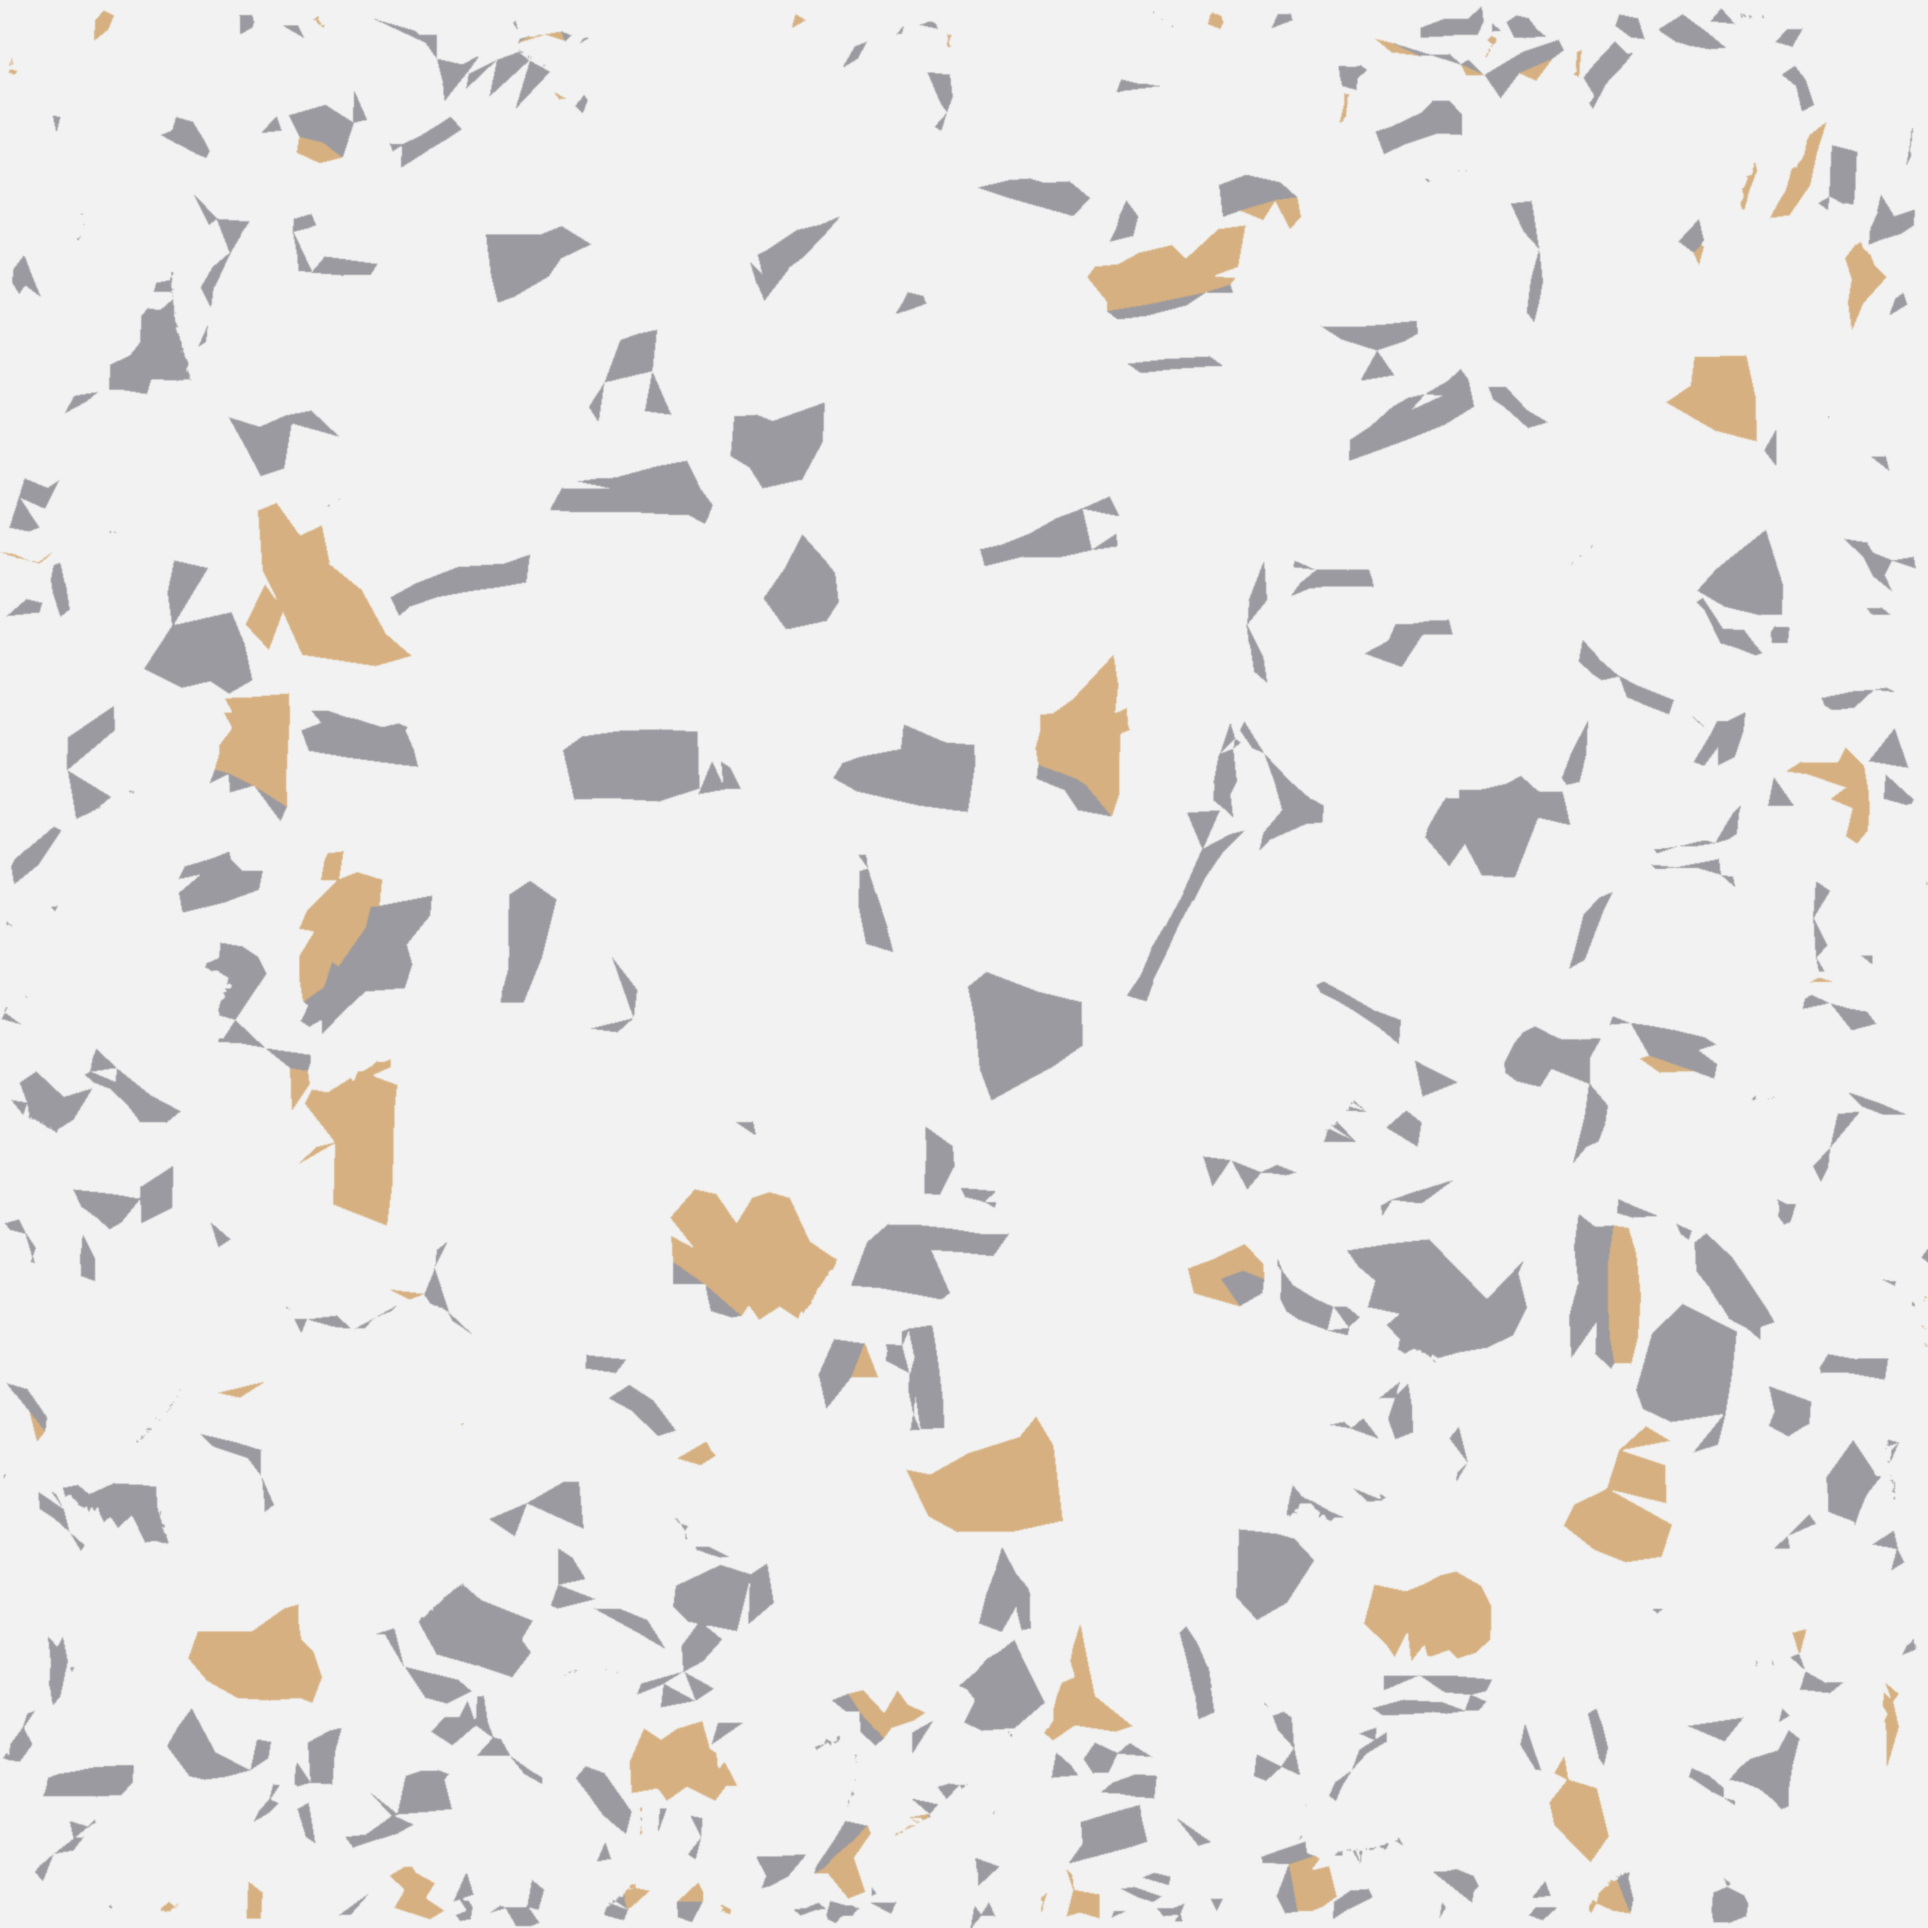
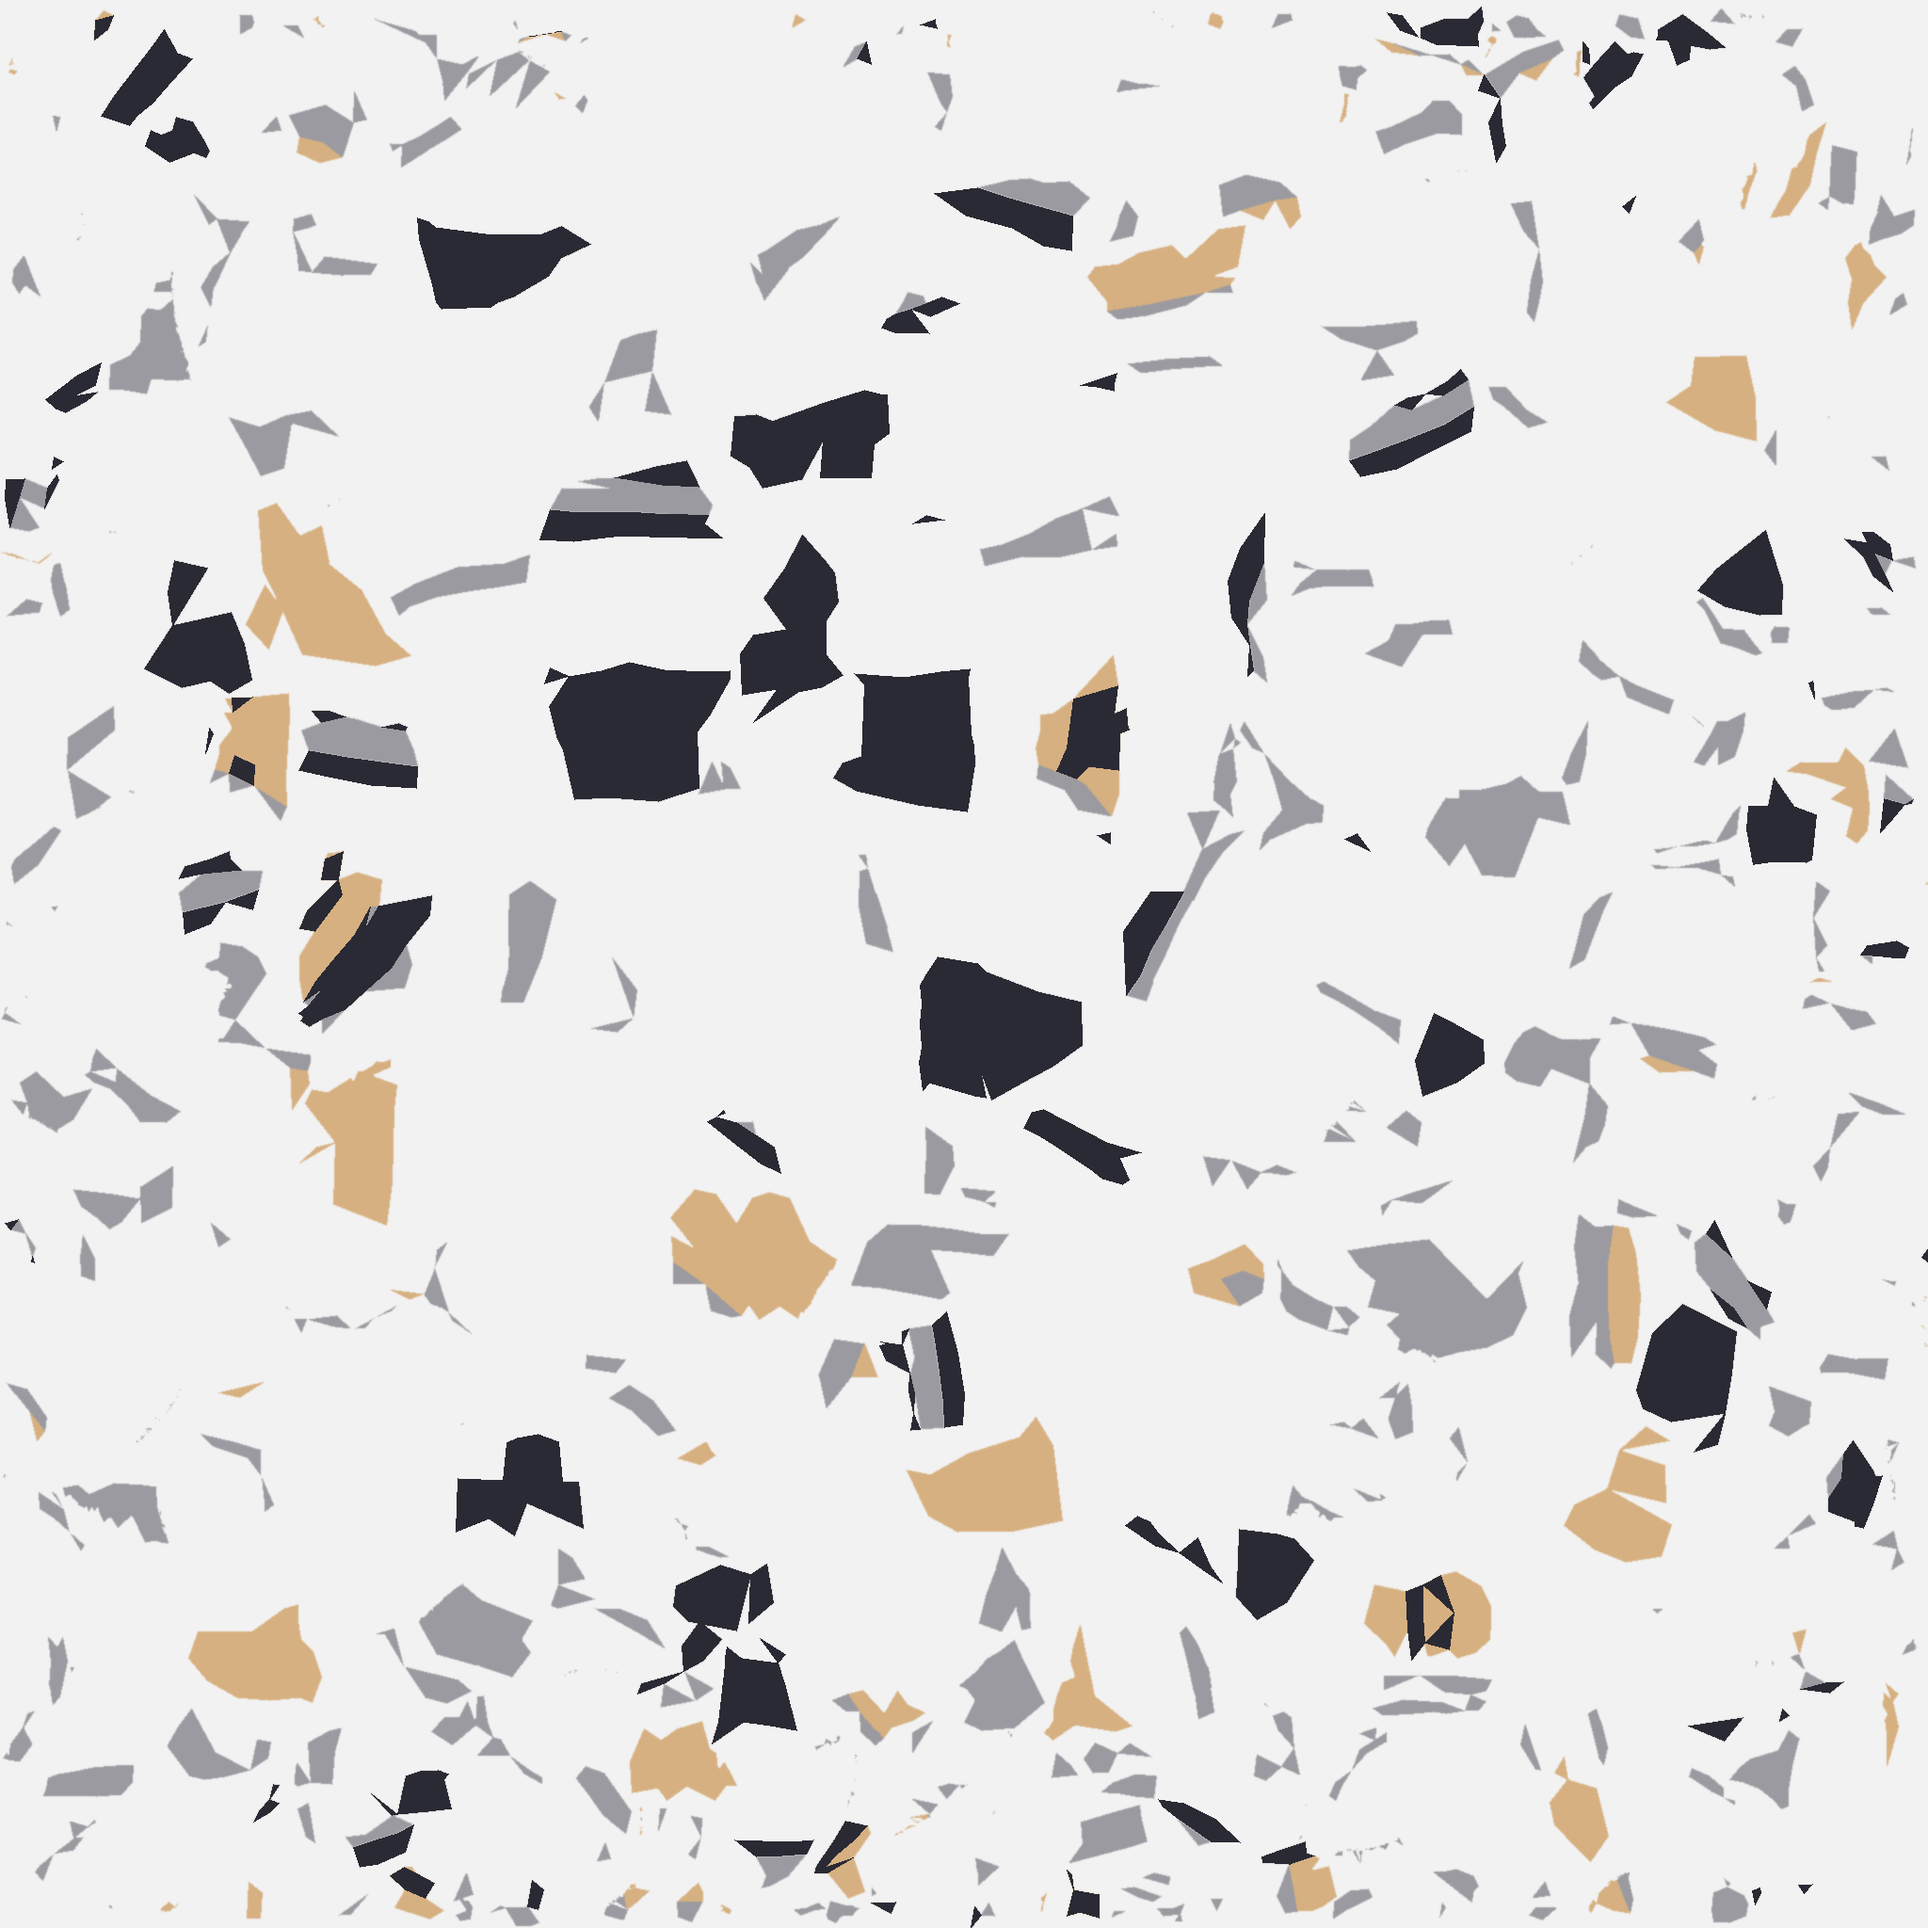
Хват: руки шире по древку, кисть заходит в раструб кулака, внутренность раструба тёмная
Claude-Session: https://claude.ai/code/session_01EDLv5suW1boUD5SsfJHPwH

diff --git a/unity/Assets/Hockey/Scripts/KayKitCharacter.cs b/unity/Assets/Hockey/Scripts/KayKitCharacter.cs
@@ -22,7 +22,7 @@ namespace Hockey
         float wWind, wShot, leftSign = 1, lastDt = 1 / 60f;   // исходное положение кистей (рука «тянется» только на кадр)
         float gripW;
         readonly List<Transform> hands = new List<Transform>();
-        class GloveRig { public Transform T, Hand, Lower, Fist; public float Along; public Vector3 BackLocal; public bool Left; }
+        class GloveRig { public Transform T, Hand, Lower, Fist; public float Along, FistSize; public Vector3 BackLocal; public bool Left; }
         // текущий хват: точки на древке для правой (верхней) и левой (нижней) руки и направление древка к крюку
         Vector3 gripTop, gripLow, gripDir; float gripNow;
         readonly List<GloveRig> gloves = new List<GloveRig>();
@@ -74,7 +74,8 @@ namespace Hockey
         }
         float GloveAlong(bool left)
         {
-            foreach (var g in gloves) if (g.Left == left) return Mathf.Max(0, g.Along);
+            // у кулака кисть заходит в раструб: запястье — на полпути от центра хвата к краю раструба
+            foreach (var g in gloves) if (g.Left == left) return g.Fist != null ? g.FistSize * 0.5f : Mathf.Max(0, g.Along);
             return 0;
         }
         const float HandShrink = 0.62f;
@@ -300,7 +301,9 @@ namespace Hockey
                         // кулак той же величины: длина кулака ≈ 0.72 длины раскрытой краги
                         float len = 0.2f;
                         foreach (var rr in ch.GetComponentsInChildren<Renderer>(true)) len = Mathf.Max(len, rr.bounds.size.magnitude * 0.62f);
-                        k.gloves[k.gloves.Count - 1].Fist = HockeyGear.Fist(team, go.transform, len * 0.72f, side == ".r");
+                        var gr = k.gloves[k.gloves.Count - 1];
+                        gr.FistSize = len * 0.72f;
+                        gr.Fist = HockeyGear.Fist(team, go.transform, gr.FistSize, side == ".r");
                     }
                 }
             // кулак модели меньше — чтобы не протыкал крагу; всё надетое на кисть компенсируем, оно остаётся прежнего размера
@@ -659,7 +662,7 @@ namespace Hockey
             var bladeFwd = Vector3.ProjectOnPlane(right * 0.9f + fwd * 0.35f, dir);
             if (bladeFwd.sqrMagnitude < 1e-4f) bladeFwd = Vector3.ProjectOnPlane(fwd, dir);
             float armLen = (armL1.position - armL0.position).magnitude + (bWristL.position - armL1.position).magnitude;
-            float sep = Mathf.Lerp(0.46f, Mathf.Clamp(fMix[30] * armLen, 0.16f, 0.45f), act);
+            float sep = Mathf.Lerp(0.62f, Mathf.Clamp(fMix[30] * armLen, 0.16f, 0.45f), act);   // в стойке руки широко по древку
             var lowGrip = top + dir * sep;
             float alongL = GloveAlong(true), alongR = GloveAlong(false);
             if (act < 0.99f) Ik(armR0, armR1, armR2, top - (top - armR0.position).normalized * alongR, w * (1 - act), right);

diff --git a/unity/Tools/cuffdark.py b/unity/Tools/cuffdark.py
@@ -1,0 +1,20 @@
+# внутренность раструба — тёмная (снаружи не видно «пустую» серую трубу)
+import sys, numpy as np, trimesh
+from PIL import Image, ImageDraw
+base=sys.argv[1]
+m=trimesh.load(base+'.obj',force='mesh',process=False)
+img=Image.open(base+'.png').convert('RGB'); w,h=img.size
+V=m.vertices; F=m.faces; uv=m.visual.uv
+cen=V[F].mean(1); fn=m.face_normals
+ymin,ymax=V[:,1].min(),V[:,1].max(); cuffTop=ymin+0.32*(ymax-ymin)
+# ось раструба: центр по x,z у низа модели
+low=V[V[:,1]<ymin+0.1*(ymax-ymin)]; cx,cz=low[:,0].mean(),low[:,2].mean()
+radial=np.c_[cen[:,0]-cx,np.zeros(len(cen)),cen[:,2]-cz]; radial/=np.linalg.norm(radial,axis=1)[:,None]+1e-9
+inward=((fn*radial).sum(1)<-0.2)|(fn[:,1]>0.6)
+rad=np.hypot(cen[:,0]-cx,cen[:,2]-cz); rOut=np.hypot(low[:,0]-cx,low[:,2]-cz).max()
+ceiling=(fn[:,1]<-0.5)&(rad<rOut*0.78)&(cen[:,1]<ymin+0.55*(ymax-ymin))&(cen[:,1]>ymin+0.04*(ymax-ymin))
+sel=((cen[:,1]<cuffTop)&inward)|ceiling
+d=ImageDraw.Draw(img)
+for t in np.where(sel)[0]:
+    pts=[((uv[j,0]%1)*w,(1-uv[j,1]%1)*h) for j in F[t]]; d.polygon(pts,fill=(42,42,52),outline=(42,42,52))
+img.save(base+'.png'); print('dark faces',sel.sum())
